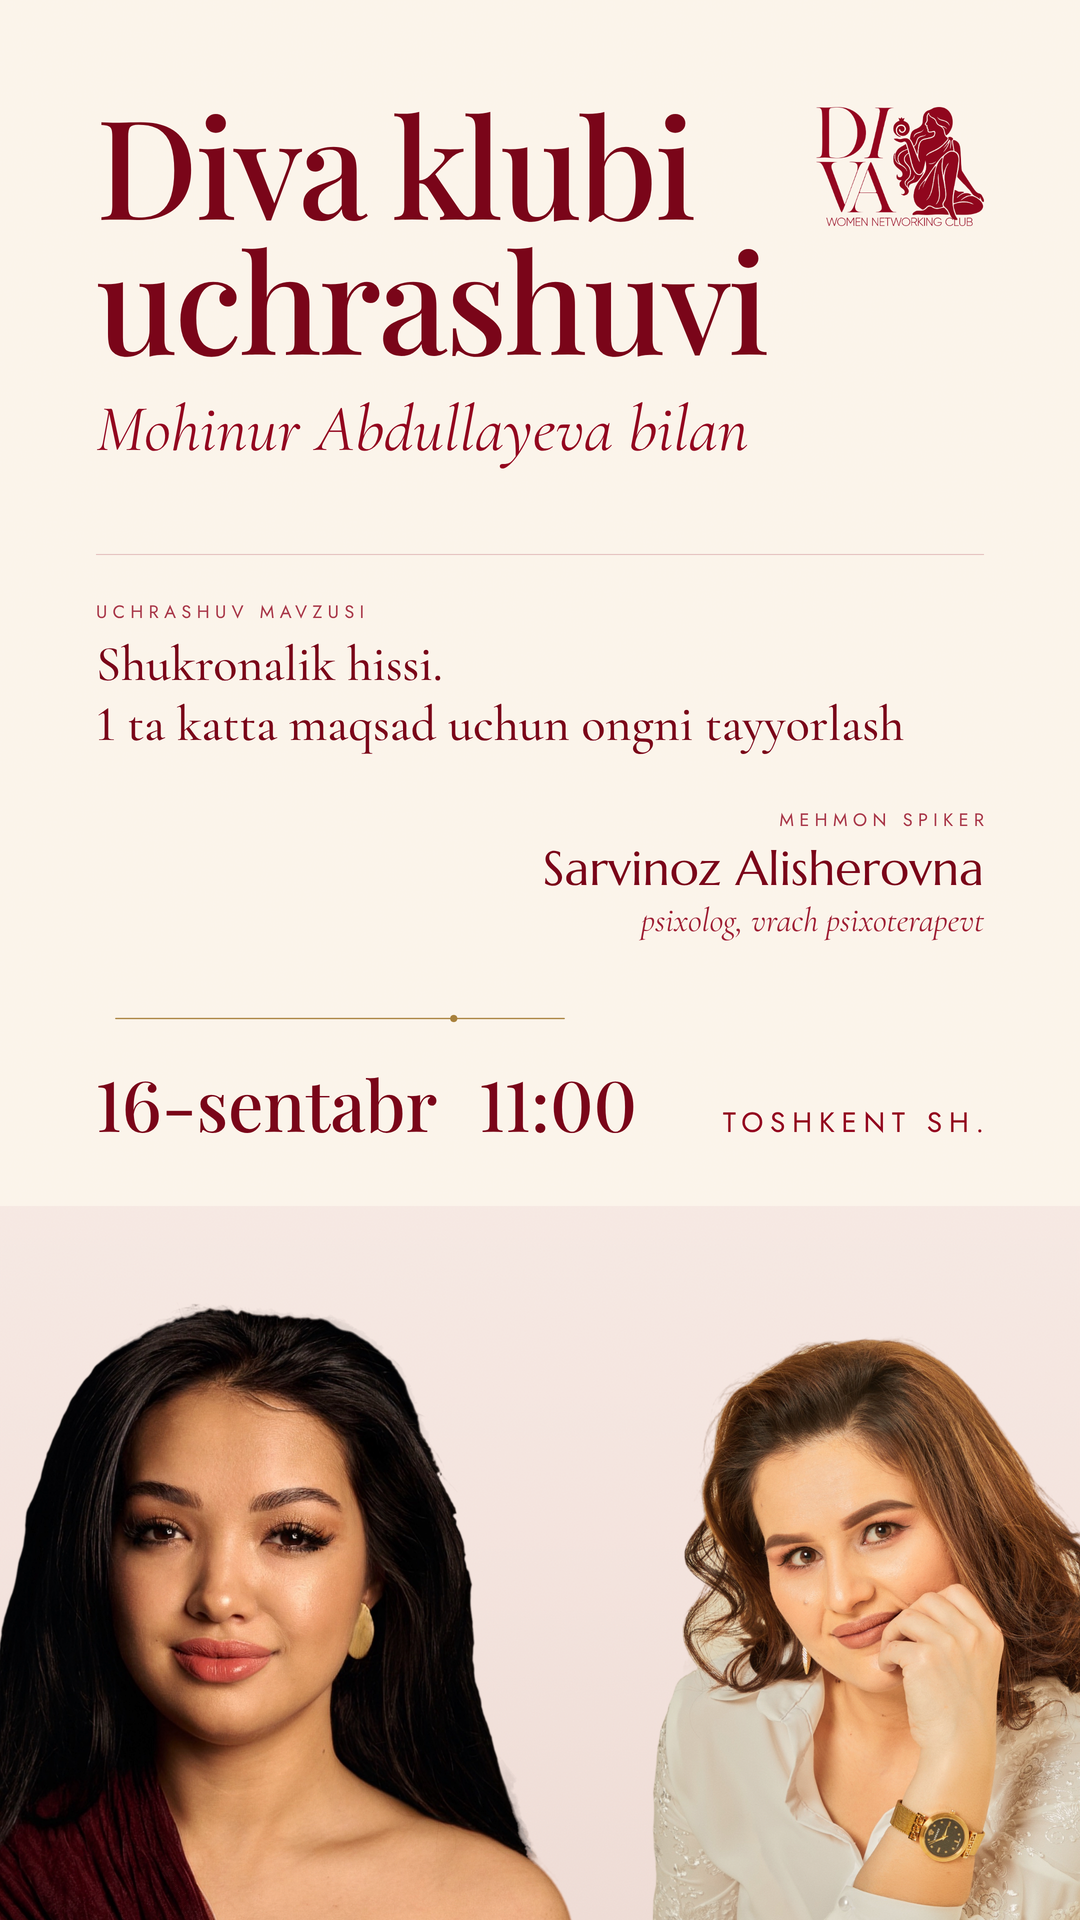
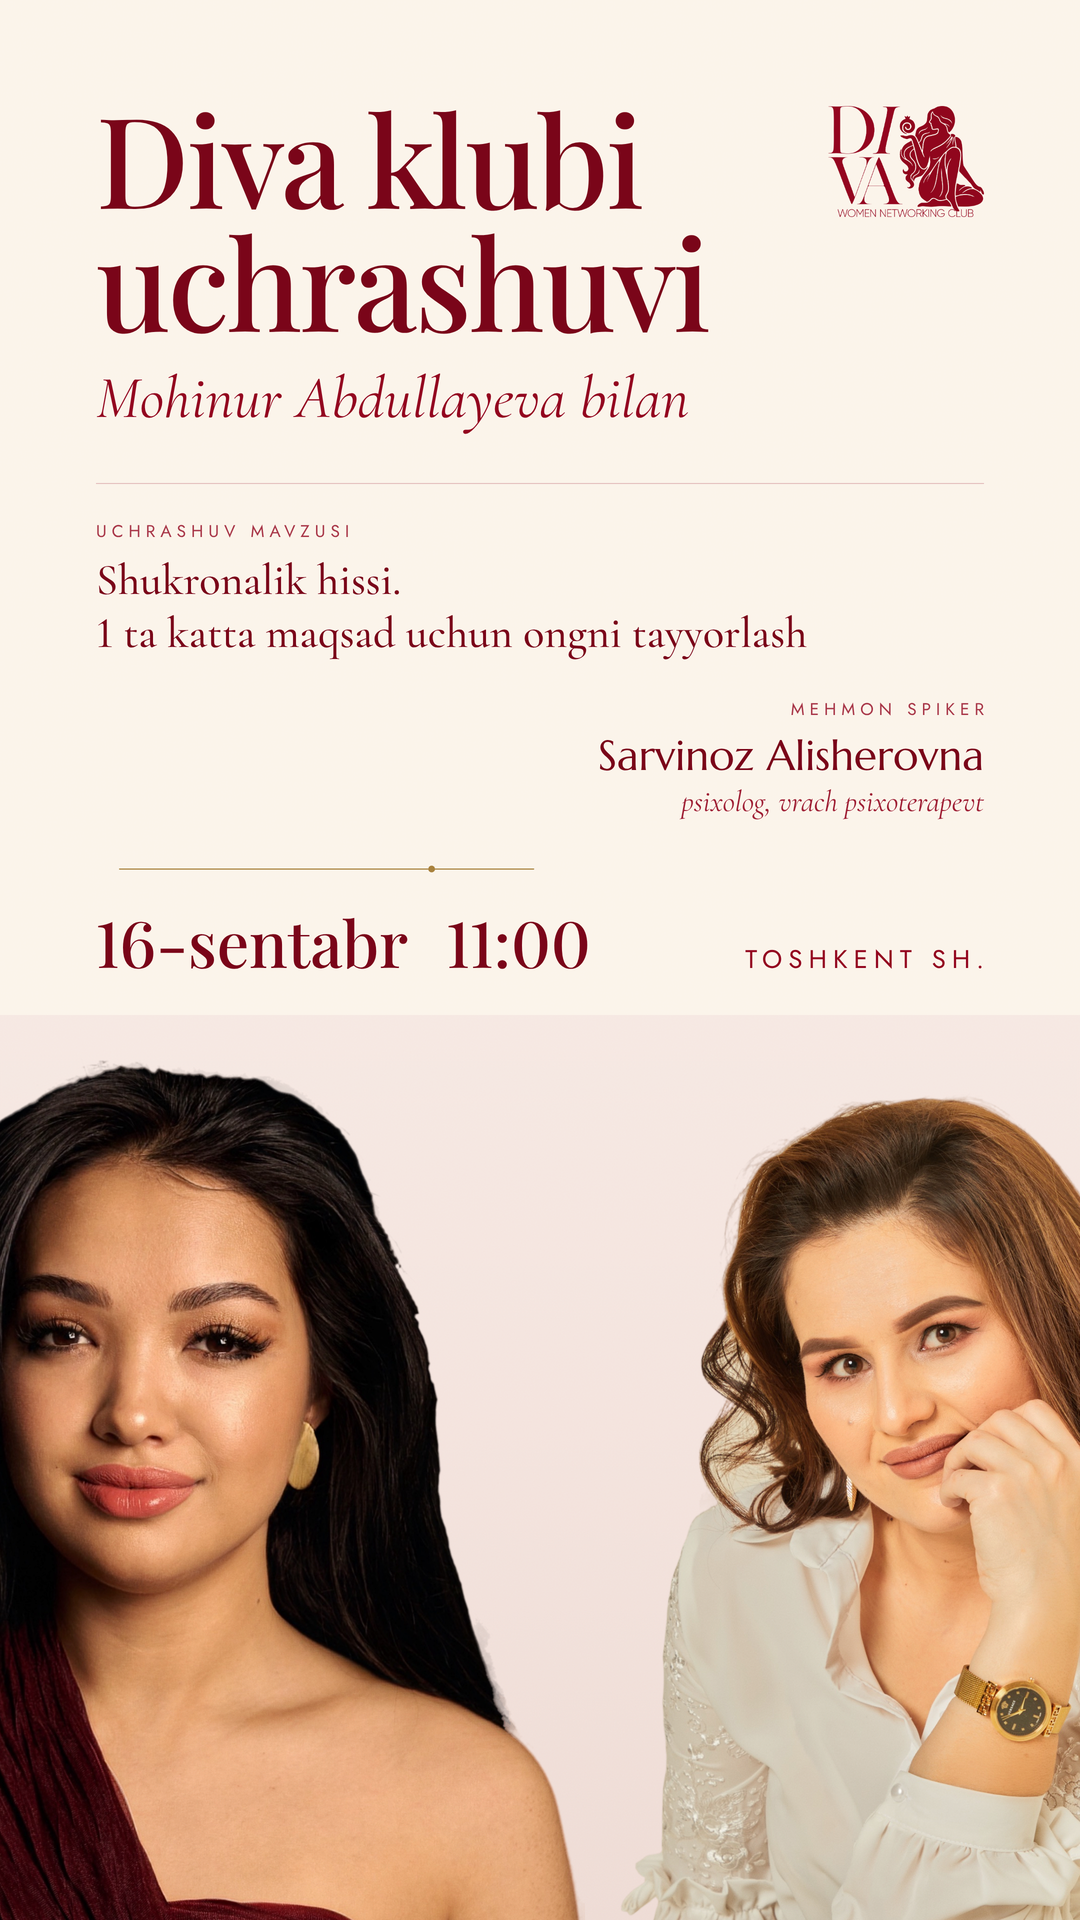
Fix the white fringe on the portrait cutouts
Un-multiplying a near-black backdrop out of near-black hair is
ill-conditioned and was blowing edge pixels toward white: invisible on
maroon, glaring on cream. Decontamination is now gated on local
foreground/background separation and clamped to the neighbouring colour
gamut, and where separation is too low to matte at all the alpha falls
back to the coarse mask stretched to a ~3px transition instead of a
20px mush band.

Claude-Session: https://claude.ai/code/session_01CJcxAKvhDYH9Z96uyo456t

diff --git a/diva-club-posts/variant-a.html b/diva-club-posts/variant-a.html
@@ -29,16 +29,19 @@
   --gapHost: 12px;
 
   --figW: 560px;            /* photo box width  — drives the figure scale  */
-  --figH: 640px;            /* photo box height — drives the crop          */
+  --figH: 656px;            /* photo box height — drives the crop          */
   --figOv: 196px;           /* how far the two boxes overlap               */
-  --stageTop: 400px;
-  --fadeA: 46%;             /* body fully opaque until here                */
-  --fadeB: 84%;             /* body fully dissolved from here              */
+  --stageTop: 452px;
+  --stageShift: 17px;       /* centres the pair on the two FACES, not boxes */
+  --fadeA: 48%;             /* body fully opaque until here                */
+  --fadeB: 82%;             /* body fully dissolved from here              */
+  --sinkA: 26%;             /* maroon starts drinking the body here        */
+  --sinkM: 58%;
 
-  --namesTop: 862px;
+  --namesTop: 866px;
   --capW: 420px;
-  --capOff: calc((var(--figW) - var(--figOv)) / 2);
-  --scrimTop: 660px;
+  --capOff: 154px;
+  --scrimTop: 690px;
 
   /* ---------------- type ---------------- */
   --fsTitle: 78px;  --lhTitle: 1.0;
@@ -82,6 +85,7 @@ figure { margin: 0; }
   display: flex;
   justify-content: center;
   align-items: flex-start;
+  transform: translateX(var(--stageShift));
 }
 .fig {
   position: relative;
@@ -94,7 +98,31 @@ figure { margin: 0; }
 }
 .fig--s { margin-left: calc(var(--figOv) * -1); }
 .fig--m img { filter: brightness(1.05) contrast(1.02); }
-.fig--s img { filter: brightness(.98) contrast(1.03) saturate(.90); }
+.fig--s img { filter: brightness(.97) contrast(1.03) saturate(.88); }
+
+/* the maroon the body is drunk by — clipped to each silhouette (same crop as
+   the photo) so the shoulders sink into shadow instead of ghosting out */
+.sink {
+  position: absolute;
+  inset: 0;
+  background: linear-gradient(180deg,
+    rgba(60, 3, 16, 0)   var(--sinkA),
+    rgba(56, 3, 14, .52) var(--sinkM),
+    rgba(50, 2, 13, .93) var(--fadeB),
+    rgba(48, 2, 12, 1)  100%);
+  -webkit-mask-size: cover;         mask-size: cover;
+  -webkit-mask-repeat: no-repeat;   mask-repeat: no-repeat;
+}
+.fig--m .sink {
+  -webkit-mask-image: url("assets/cutout/mohinur-cut-soft.png");
+          mask-image: url("assets/cutout/mohinur-cut-soft.png");
+  -webkit-mask-position: 50% 16%;   mask-position: 50% 16%;
+}
+.fig--s .sink {
+  -webkit-mask-image: url("assets/cutout/sarvinoz-cut-soft.png");
+          mask-image: url("assets/cutout/sarvinoz-cut-soft.png");
+  -webkit-mask-position: 46% 14%;   mask-position: 46% 14%;
+}
 
 /* -------------------------------------------------------------------- head */
 .head {
@@ -243,11 +271,12 @@ figure { margin: 0; }
 /* ===================================================================== 9:16 */
 html[data-r="9x16"] .canvas {
   --padX: 88px; --gTop: 100px; --gBot: 96px;
-  --logoW: 178px; --gapLogo: 44px; --gapHost: 16px;
-  --figW: 551px; --figH: 820px; --figOv: 198px;
-  --stageTop: 546px; --fadeA: 62%; --fadeB: 96%;
-  --namesTop: 1252px; --capW: 430px; --scrimTop: 1010px;
-  --fsTitle: 96px; --fsHost: 47px;
+  --logoW: 190px; --gapLogo: 44px; --gapHost: 16px;
+  --figW: 562px; --figH: 830px; --figOv: 220px;
+  --stageTop: 566px; --stageShift: 17px;
+  --fadeA: 64%; --fadeB: 92%; --sinkA: 36%; --sinkM: 68%;
+  --namesTop: 1300px; --capW: 420px; --capOff: 143px; --scrimTop: 1040px;
+  --fsTitle: 102px; --fsHost: 47px;
   --fsTag: 17px; --fsName: 40px; --fsRole: 28px;
   --fsLbl: 19px; --fsTopic: 56px; --fsTopic2: 39px;
   --fsDate: 57px; --fsCity: 25px;
@@ -257,24 +286,26 @@ html[data-r="9x16"] .canvas {
 /* ====================================================================== 4:5 */
 html[data-r="4x5"] .canvas {
   --padX: 78px; --gTop: 74px; --gBot: 70px;
-  --logoW: 146px; --gapLogo: 30px; --gapHost: 12px;
-  --figW: 560px; --figH: 640px; --figOv: 196px;
-  --stageTop: 400px; --fadeA: 46%; --fadeB: 84%;
-  --namesTop: 860px; --capW: 420px; --scrimTop: 650px;
+  --logoW: 152px; --gapLogo: 30px; --gapHost: 12px;
+  --figW: 560px; --figH: 656px; --figOv: 196px;
+  --stageTop: 452px; --stageShift: 17px;
+  --fadeA: 48%; --fadeB: 82%; --sinkA: 26%; --sinkM: 58%;
+  --namesTop: 866px; --capW: 420px; --capOff: 154px; --scrimTop: 690px;
   --fsTitle: 78px; --fsHost: 40px;
   --fsTag: 15px; --fsName: 32px; --fsRole: 24px;
   --fsLbl: 16px; --fsTopic: 45px; --fsTopic2: 32px;
   --fsDate: 47px; --fsCity: 21px;
-  --markW: 240px; --gapMark: 28px; --gapWhen: 24px; --whenGap: 30px;
+  --markW: 240px; --gapMark: 24px; --gapWhen: 22px; --whenGap: 30px;
 }
 
 /* ====================================================================== 1:1 */
 html[data-r="1x1"] .canvas {
   --padX: 72px; --gTop: 62px; --gBot: 60px;
-  --logoW: 118px; --gapLogo: 20px; --gapHost: 8px;
-  --figW: 567px; --figH: 640px; --figOv: 198px;
-  --stageTop: 340px; --fadeA: 30%; --fadeB: 62%;
-  --namesTop: 662px; --capW: 400px; --scrimTop: 520px;
+  --logoW: 124px; --gapLogo: 20px; --gapHost: 8px;
+  --figW: 567px; --figH: 660px; --figOv: 198px;
+  --stageTop: 358px; --stageShift: 17px;
+  --fadeA: 32%; --fadeB: 66%; --sinkA: 14%; --sinkM: 44%;
+  --namesTop: 656px; --capW: 400px; --capOff: 156px; --scrimTop: 520px;
   --fsTitle: 60px; --fsHost: 33px;
   --fsTag: 14px; --fsName: 29px; --fsRole: 22px;
   --fsLbl: 15px; --fsTopic: 38px; --fsTopic2: 27px;
@@ -290,9 +321,11 @@ html[data-r="1x1"] .canvas {
   <div class="stage">
     <figure class="fig fig--m">
       <img class="ph ph--mohinur" src="assets/cutout/mohinur-cut-soft.png" alt="Mohinur Abdullayeva">
+      <span class="sink"></span>
     </figure>
     <figure class="fig fig--s">
       <img class="ph ph--sarvinoz" src="assets/cutout/sarvinoz-cut-soft.png" alt="Sarvinoz Alisherovna">
+      <span class="sink"></span>
     </figure>
   </div>
 

diff --git a/diva-club-posts/variant-c.html b/diva-club-posts/variant-c.html
@@ -179,8 +179,18 @@
   margin-top: 4px;
 }
 
-/* guest portrait — frameless hard-cut crop, warm-graded into the palette */
-.sarv, .duo { position: relative; overflow: hidden; background: #d8b8b0; }
+/* guest portrait — background-removed cutout standing directly on the maroon.
+   No box: the only edges are her own silhouette, and a radial mask dissolves
+   the extremes of her hair back into the ground. The tint layer is masked by
+   the same cutout so it grades HER, never the ground behind her. */
+.sarv, .duo {
+  position: relative;
+  -webkit-mask-image: radial-gradient(var(--dr) var(--drv) at var(--dcx) var(--dcy),
+                        #000 var(--d0), rgba(0,0,0,0) var(--d1));
+          mask-image: radial-gradient(var(--dr) var(--drv) at var(--dcx) var(--dcy),
+                        #000 var(--d0), rgba(0,0,0,0) var(--d1));
+  --dr: 60%; --drv: 56%; --dcx: 52%; --dcy: 39%; --d0: 88%; --d1: 132%;
+}
 .sarv { flex: 0 0 auto; width: var(--sw); height: var(--sh); }
 .sarv > img, .duo > img {
   position: absolute;
@@ -189,13 +199,22 @@
   left: var(--sx);
   top: var(--sy);
   display: block;
-  filter: saturate(0.9) contrast(1.02) brightness(0.97);
+  filter: saturate(0.95) contrast(1.03) brightness(0.84);
 }
+/* warm density so she is lit for the same post as the maroon-washed hero */
 .sarv::after, .duo::after {
   content: "";
   position: absolute; inset: 0;
-  background: linear-gradient(200deg, rgba(228,198,182,0.28), rgba(194,132,124,0.44));
+  background: linear-gradient(200deg, rgba(216,154,148,0.30), rgba(190,116,116,0.44));
   mix-blend-mode: multiply;
+  -webkit-mask-image: url("assets/cutout/sarvinoz-cut-soft.png");
+          mask-image: url("assets/cutout/sarvinoz-cut-soft.png");
+  -webkit-mask-size: auto var(--sz);
+          mask-size: auto var(--sz);
+  -webkit-mask-position: var(--sx) var(--sy);
+          mask-position: var(--sx) var(--sy);
+  -webkit-mask-repeat: no-repeat;
+          mask-repeat: no-repeat;
 }
 .duo { display: none; }
 
@@ -249,7 +268,7 @@ html[data-r="1x1"] .canvas {
   --band: 548px;
   --seam: 660px;
   --hz: 230%; --hx: -91px; --hy: -104px;
-  --sz: 235%; --sx: -189px; --sy: -133px;
+  --sz: 212%; --sx: -180px; --sy: 10px;
   --t-title: 62px; --t-with: 32px; --t-label: 13px; --t-theme: 28px;
   --t-name: 28px; --t-role: 22px; --t-date: 36px; --t-city: 16px;
   --gutter: 48px;
@@ -263,8 +282,9 @@ html[data-r="1x1"] .mark { width: 150px; top: 62px; left: 62px; }
 html[data-r="1x1"] .duo {
   display: block;
   position: absolute;
-  top: 0; left: var(--seam); right: 0;
-  height: var(--band);
+  top: 0; left: 600px; right: 0;
+  height: 640px;
+  --dr: 58%; --drv: 54%; --dcx: 52%; --dcy: 40%; --d0: 86%; --d1: 130%;
 }
 html[data-r="1x1"] .sarv { display: none; }
 html[data-r="1x1"] .r1 { margin-top: 26px; }
@@ -285,7 +305,7 @@ html[data-r="1x1"] .when { margin-top: 22px; }
     <div class="scrim"></div>
   </div>
 
-  <div class="duo"><img src="assets/derived/sarvinoz-warm.jpg" alt="Sarvinoz Alisherovna"></div>
+  <div class="duo"><img src="assets/cutout/sarvinoz-cut-soft.png" alt="Sarvinoz Alisherovna"></div>
 
   <div class="layer grain"></div>
 
@@ -311,7 +331,7 @@ html[data-r="1x1"] .when { margin-top: 22px; }
         </div>
       </div>
 
-      <div class="sarv"><img src="assets/derived/sarvinoz-warm.jpg" alt="Sarvinoz Alisherovna"></div>
+      <div class="sarv"><img src="assets/cutout/sarvinoz-cut-soft.png" alt="Sarvinoz Alisherovna"></div>
     </div>
 
     <div class="rule r2"></div>

diff --git a/diva-club-posts/variant-b.html b/diva-club-posts/variant-b.html
@@ -42,12 +42,12 @@
 
 html[data-r="9x16"] .canvas {
   --m: 96px;
-  --ttl: 138px; --host: 66px; --lbl: 18px; --topic: 50px;
-  --name: 48px; --role: 34px; --date: 70px; --logo: 168px;
-  --horizon: 1206px;
-  --fw1: 720px; --fx1: -126px; --fy1: 1258px;
-  --fw2: 650px; --fx2: 586px; --fy2: 1296px;
-  --g-host: 26px; --g-rule: 86px; --g-block: 44px; --g-cols: 70px;
+  --ttl: 126px; --host: 60px; --lbl: 17px; --topic: 44px;
+  --name: 42px; --role: 30px; --date: 64px; --logo: 156px;
+  --horizon: 1015px;
+  --fw1: 870px; --fx1: -285px; --fy1: 1005px;
+  --fw2: 800px; --fx2: 580px;  --fy2: 1045px;
+  --g-host: 22px; --g-rule: 50px; --g-block: 36px; --g-cols: 44px;
 }
 
 html[data-r="1x1"] .canvas {
@@ -64,7 +64,7 @@ html[data-r="1x1"] .canvas {
 /* 9:16 has the height for a stacked info block: the topic runs the full
    column width and the guest credit sits under it, flush right, pointing at
    the figure on the right. 4:5 and 1:1 run the same two items as columns. */
-html[data-r="9x16"] .cols { flex-direction: column; align-items: stretch; gap: 52px; }
+html[data-r="9x16"] .cols { flex-direction: column; align-items: stretch; gap: 38px; }
 
 /* ---------------------------- ground ---------------------------- */
 .horizon {

diff --git a/diva-club-posts/assets/cutout/INDEX-cutout.md b/diva-club-posts/assets/cutout/INDEX-cutout.md
@@ -1,0 +1,127 @@
+# Cutouts — background removed, full resolution RGBA
+
+Four files, all **1717 × 2576** (same frame as the source photos, nothing cropped or
+resampled), genuine 8-bit alpha channel.
+
+* `*-cut.png` — the normal cutout. Use this everywhere by default.
+* `*-cut-soft.png` — same matte with the alpha edge feathered ~2px and an extra
+  spill-suppression pass. Use **only** on strongly coloured grounds (maroon, gold)
+  where a 1px hard edge can shimmer. On cream/ivory prefer the plain `-cut`.
+
+All numbers below are **measured**, not estimated. Bounding box = the extent of every
+pixel with `alpha > 0`, given as inclusive pixel coordinates; the percentages are of
+the 1717 × 2576 frame (`left = x/1717`, `right = (x+1)/1717`, likewise for y/2576).
+The eye-line is the mean of the two iris centres, fitted as circles on the source.
+
+---
+
+## 1. `mohinur-cut.png` — Mohinur Abdullayeva
+
+| | |
+|---|---|
+| Size | 1717 × 2576 px · RGBA · 4 219 754 bytes (4.22 MB) |
+| Bounding box | L **0** · T **105** · R **1716** · B **2575**  → 1717 × 2471 px |
+| Bounding box % | L **0.00%** · T **4.08%** · R **100.00%** · B **100.00%** (w 100.00% · h 95.92%) |
+| Eye-line | y = **656.5 px** = **25.49%** from the top of the frame (= 22.32% down the bounding box) |
+| Frame bleed | runs off the **left, right and bottom** edges — the bottom row is 100% opaque |
+
+She already fills the frame edge to edge, so no horizontal nudge is needed.
+
+```html
+<img class="cut cut--mohinur" src="assets/cutout/mohinur-cut.png" alt="Mohinur Abdullayeva">
+```
+```css
+/* gown bleeds off left/right/bottom by design; eyes land at 25.49% of the image height */
+.cut--mohinur{ position:absolute; left:0; bottom:0; width:100%; height:auto; }
+```
+
+---
+
+## 2. `sarvinoz-cut.png` — Sarvinoz Alisherovna
+
+| | |
+|---|---|
+| Size | 1717 × 2576 px · RGBA · 3 796 589 bytes (3.80 MB) |
+| Bounding box | L **81** · T **101** · R **1578** · B **2575**  → 1498 × 2475 px |
+| Bounding box % | L **4.72%** · T **3.92%** · R **91.96%** · B **100.00%** (w 87.25% · h 96.08%) |
+| Eye-line | y = **651.5 px** = **25.29%** from the top of the frame (= 22.24% down the bounding box) |
+| Frame bleed | runs off the **bottom** only (82% of the bottom row opaque); clear margins left and right |
+
+She has ~4.7% empty margin on the left and ~8% on the right, so to make her body span a
+container exactly, scale by 100/87.25 = 114.61% and pull left by 4.72 × 1.1461 = 5.41%.
+
+```html
+<img class="cut cut--sarvinoz" src="assets/cutout/sarvinoz-cut.png" alt="Sarvinoz Alisherovna">
+```
+```css
+/* 114.61% + −5.41% makes the SUBJECT (not the file) span the container edge to edge */
+.cut--sarvinoz{ position:absolute; left:-5.41%; bottom:0; width:114.61%; height:auto; }
+```
+
+---
+
+## 3. `mohinur-cut-soft.png` — feathered, for coloured grounds
+
+| | |
+|---|---|
+| Size | 1717 × 2576 px · RGBA · 4 232 681 bytes (4.23 MB) |
+| Bounding box | L **0** · T **104** · R **1716** · B **2575**  → 1717 × 2472 px |
+| Bounding box % | L **0.00%** · T **4.04%** · R **100.00%** · B **100.00%** (w 100.00% · h 95.96%) |
+| Eye-line | y = **656.5 px** = **25.49%** from the top of the frame (= 22.35% down the bounding box) |
+| Frame bleed | left, right and bottom; the bleed edges are held hard, only the free edges are feathered |
+
+```html
+<img class="cut cut--mohinur-soft" src="assets/cutout/mohinur-cut-soft.png" alt="Mohinur Abdullayeva">
+```
+```css
+/* identical placement to mohinur-cut.png — the matte is 1px softer, the geometry is the same */
+.cut--mohinur-soft{ position:absolute; left:0; bottom:0; width:100%; height:auto; }
+```
+
+---
+
+## 4. `sarvinoz-cut-soft.png` — feathered, for coloured grounds
+
+| | |
+|---|---|
+| Size | 1717 × 2576 px · RGBA · 3 798 726 bytes (3.80 MB) |
+| Bounding box | L **79** · T **101** · R **1579** · B **2575**  → 1501 × 2475 px |
+| Bounding box % | L **4.60%** · T **3.92%** · R **92.02%** · B **100.00%** (w 87.42% · h 96.08%) |
+| Eye-line | y = **651.5 px** = **25.29%** from the top of the frame (= 22.24% down the bounding box) |
+| Frame bleed | bottom only |
+
+```html
+<img class="cut cut--sarvinoz-soft" src="assets/cutout/sarvinoz-cut-soft.png" alt="Sarvinoz Alisherovna">
+```
+```css
+/* 114.39% + −5.26%: same idea as sarvinoz-cut.png, re-derived for the 2px-wider matte */
+.cut--sarvinoz-soft{ position:absolute; left:-5.26%; bottom:0; width:114.39%; height:auto; }
+```
+
+---
+
+## Hitting a target eye-line
+
+Both women sit at almost the same height in frame (25.49% / 25.29%), so one rule works
+for both. To put the eyes at `E` px down a canvas of any size:
+
+```
+image height = E / 0.2549   (Mohinur)      image height = E / 0.2529   (Sarvinoz)
+image top    = E − 0.2549 × image height   ( = the same thing, expressed as an offset )
+```
+
+e.g. eyes at 480px down a 1350px 4:5 canvas → Mohinur rendered 1883px tall, `top: 0`.
+Because the two eye-lines are within 0.2% of each other, a pair of portraits scaled to
+the **same height** will have their eyes aligned to within ~5px at full resolution.
+
+## Notes for placement
+
+* Both files are the **full original frame**, so `object-fit` / `object-position` from
+  `base.css` still behaves exactly as it does on the source JPEGs — the only difference
+  is that the studio ground is now transparent.
+* Nothing belonging to either subject was removed: Mohinur's earring and the full sweep
+  of the gown, Sarvinoz's raised hand, her watch, earring, blouse ties and trousers are
+  all intact, along with the detached flyaway strands around both heads.
+* No retouching, smoothing or reshaping was done. Pixels at `alpha = 255` are bit-identical
+  to the source; only partially-transparent edge pixels were recoloured, and only to
+  remove the studio ground's contribution to them.
